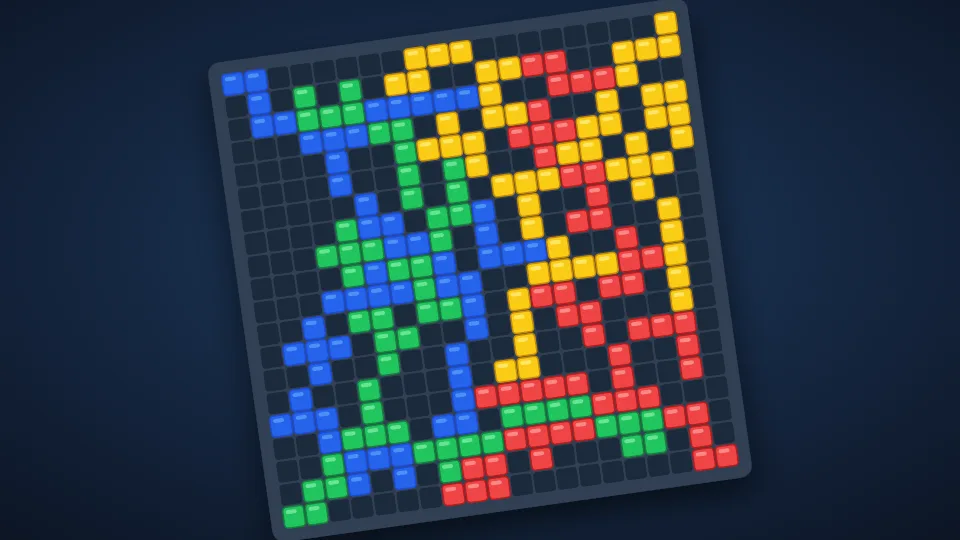
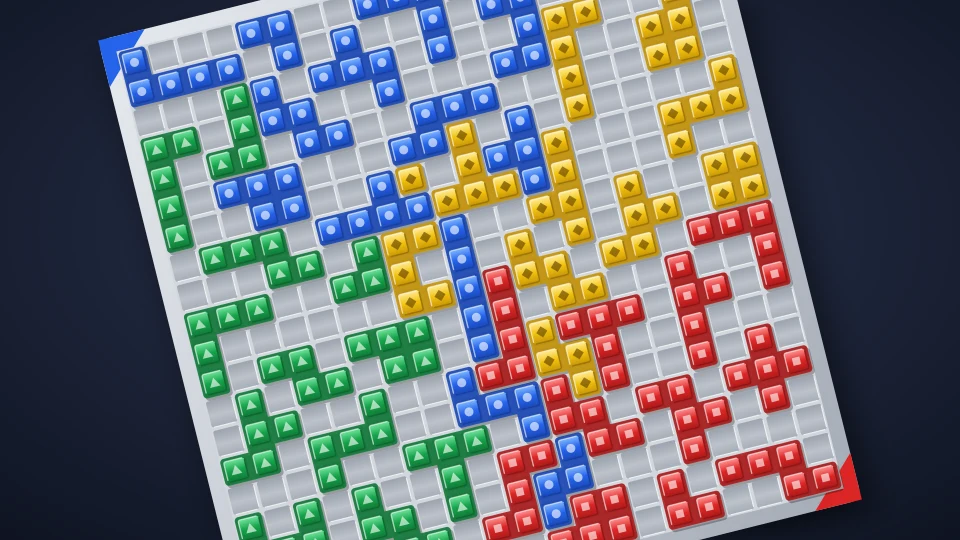
Render the Blokus cover in the new plastic

diff --git a/scripts/blokus-cover.ts b/scripts/blokus-cover.ts
@@ -1,0 +1,127 @@
+/**
+ * Renders the Blokus cover, public/img/games/covers/blokus.webp (960×540), SVG → sharp.
+ *
+ * The position is a real one: legal moves from the engine, played from the start with
+ * a seeded random pick among the biggest pieces, as a game looks when everyone plays
+ * sensibly. The squares come from the game's own path builders, so the cover is the
+ * same plastic as the board. Only the colours are repeated here, as the game keeps
+ * them in its stylesheet.
+ *
+ * Usage: node -r tsx/cjs scripts/blokus-cover.ts [--seed 11] [--moves 52] [--out path.webp]
+ */
+
+import sharp from 'sharp';
+import { applyMove, cloneState, legalMoves, movePiece, newGame, passTurn, PIECES } from '../src/components/game/Blokus/engine';
+import { facePath, litPath, markPath, platePath, shadePath, wellLipsPath, wellsPath, type Cells } from '../src/components/game/Blokus/pieceArt';
+
+const option = (name: string, fallback: string) => {
+  const at = process.argv.indexOf(`--${name}`);
+  return at >= 0 ? process.argv[at + 1] : fallback;
+};
+
+const COLORS = [
+  { high: '#7cb4ff', mid: '#2563eb', low: '#1a48b8', edge: '#173e9e', ink: '#ffffff', corner: '#2563eb' },
+  { high: '#ffec99', mid: '#f2c20f', low: '#c99606', edge: '#94700a', ink: '#5c3e00', corner: '#f2c20f' },
+  { high: '#ff8f8f', mid: '#dc2626', low: '#ad1a1a', edge: '#8a1616', ink: '#ffffff', corner: '#dc2626' },
+  { high: '#6fe39b', mid: '#16a34a', low: '#107a38', edge: '#0e632e', ink: '#ffffff', corner: '#16a34a' },
+];
+
+/** A small seeded generator, so a seed always gives the same cover. */
+const random = (seed: number) => () => {
+  seed = (seed * 1664525 + 1013904223) >>> 0;
+  return seed / 2 ** 32;
+};
+
+const playGame = (seed: number, moves: number) => {
+  const next = random(seed);
+  const game = cloneState(newGame('classic'));
+  for (let played = 0; played < moves && !game.over; played++) {
+    const options = legalMoves(game);
+    if (options.length === 0) {
+      passTurn(game);
+      continue;
+    }
+    const biggest = Math.max(...options.map((move) => PIECES[movePiece(move)].size));
+    const big = options.filter((move) => PIECES[movePiece(move)].size === biggest);
+    applyMove(game, big[Math.floor(next() * big.length)]);
+  }
+  return game;
+};
+
+const plastic = (cells: Cells, color: number) => {
+  const paint = COLORS[color];
+  return `
+    <path d="${platePath(cells)}" fill="#000" fill-opacity="0.28" transform="translate(0.06 0.1)"/>
+    <path d="${platePath(cells)}" fill="${paint.low}" fill-opacity="0.88"/>
+    <path d="${facePath(cells)}" fill="url(#face${color})"/>
+    <path d="${shadePath(cells)}" fill="none" stroke="${paint.edge}" stroke-opacity="0.85" stroke-width="0.05" stroke-linecap="round"/>
+    <path d="${litPath(cells)}" fill="none" stroke="#fff" stroke-opacity="0.62" stroke-width="0.045" stroke-linecap="round"/>
+    <path d="${markPath(cells, color)}" fill="${paint.ink}" fill-opacity="0.62"/>`;
+};
+
+const gradients = COLORS.map(
+  ({ high, mid, low }, color) => `
+    <linearGradient id="face${color}" gradientUnits="userSpaceOnUse" x1="0" y1="0" x2="0" y2="1" spreadMethod="repeat">
+      <stop offset="0.15" stop-color="${high}"/>
+      <stop offset="0.5" stop-color="${mid}"/>
+      <stop offset="0.86" stop-color="${low}"/>
+    </linearGradient>`,
+).join('');
+
+const render = async (seed: number, moves: number, out: string) => {
+  const game = playGame(seed, moves);
+  const { size } = game.rules;
+  const byColor: Array<Array<[number, number]>> = [[], [], [], []];
+  for (let row = 0; row < size; row++) {
+    for (let col = 0; col < size; col++) {
+      const color = game.board[row * size + col];
+      if (color >= 0) byColor[color].push([row, col]);
+    }
+  }
+
+  // The board in cells, with a rim of 0.5 around it, tilted so it fills the frame and runs off the edges.
+  const cell = 30;
+  const rim = 0.5;
+  const span = size + 2 * rim;
+  const corner = 1.6;
+  const corners = [
+    `M${-rim} ${-rim}h${corner}l${-corner} ${corner}z`,
+    `M${size + rim} ${-rim}v${corner}l${-corner} ${-corner}z`,
+    `M${size + rim} ${size + rim}h${-corner}l${corner} ${-corner}z`,
+    `M${-rim} ${size + rim}v${-corner}l${corner} ${corner}z`,
+  ];
+
+  const svg = `<svg xmlns="http://www.w3.org/2000/svg" width="960" height="540" viewBox="0 0 960 540">
+  <defs>
+    ${gradients}
+    <linearGradient id="well" gradientUnits="userSpaceOnUse" x1="0" y1="0" x2="0" y2="1" spreadMethod="repeat">
+      <stop offset="0.1" stop-color="#9ea5b0"/>
+      <stop offset="0.55" stop-color="#bcc2ca"/>
+    </linearGradient>
+    <linearGradient id="rim" x1="0" y1="0" x2="1" y2="1">
+      <stop offset="0" stop-color="#e6e9ee"/>
+      <stop offset="1" stop-color="#a4abb6"/>
+    </linearGradient>
+    <radialGradient id="table" cx="0.5" cy="0.42" r="0.8">
+      <stop offset="0" stop-color="#2b3550"/>
+      <stop offset="1" stop-color="#0d1220"/>
+    </radialGradient>
+    <filter id="soft" x="-20%" y="-20%" width="140%" height="140%"><feGaussianBlur stdDeviation="0.5"/></filter>
+  </defs>
+  <rect width="960" height="540" fill="url(#table)"/>
+  <g transform="translate(480 270) rotate(-14) scale(${cell}) translate(${-size / 2} ${-size / 2})">
+    <rect x="${-rim + 0.25}" y="${-rim + 0.45}" width="${span}" height="${span}" rx="0.4" fill="#000" fill-opacity="0.5" filter="url(#soft)"/>
+    <rect x="${-rim}" y="${-rim}" width="${span}" height="${span}" rx="0.4" fill="url(#rim)"/>
+    ${corners.map((path, color) => `<path d="${path}" fill="${COLORS[color].corner}"/>`).join('')}
+    <rect width="${size}" height="${size}" fill="#d3d7dd"/>
+    <path d="${wellsPath(size)}" fill="url(#well)"/>
+    <path d="${wellLipsPath(size)}" fill="none" stroke="#fff" stroke-opacity="0.75" stroke-width="0.035"/>
+    ${byColor.map((cells, color) => plastic(cells, color)).join('')}
+  </g>
+</svg>`;
+
+  await sharp(Buffer.from(svg)).resize(960, 540).webp({ quality: 88 }).toFile(out);
+  console.log(`${out}: seed ${seed}, ${moves} plies, ${game.placed.join('+')} squares placed`);
+};
+
+render(Number(option('seed', '11')), Number(option('moves', '52')), option('out', 'public/img/games/covers/blokus.webp'));
